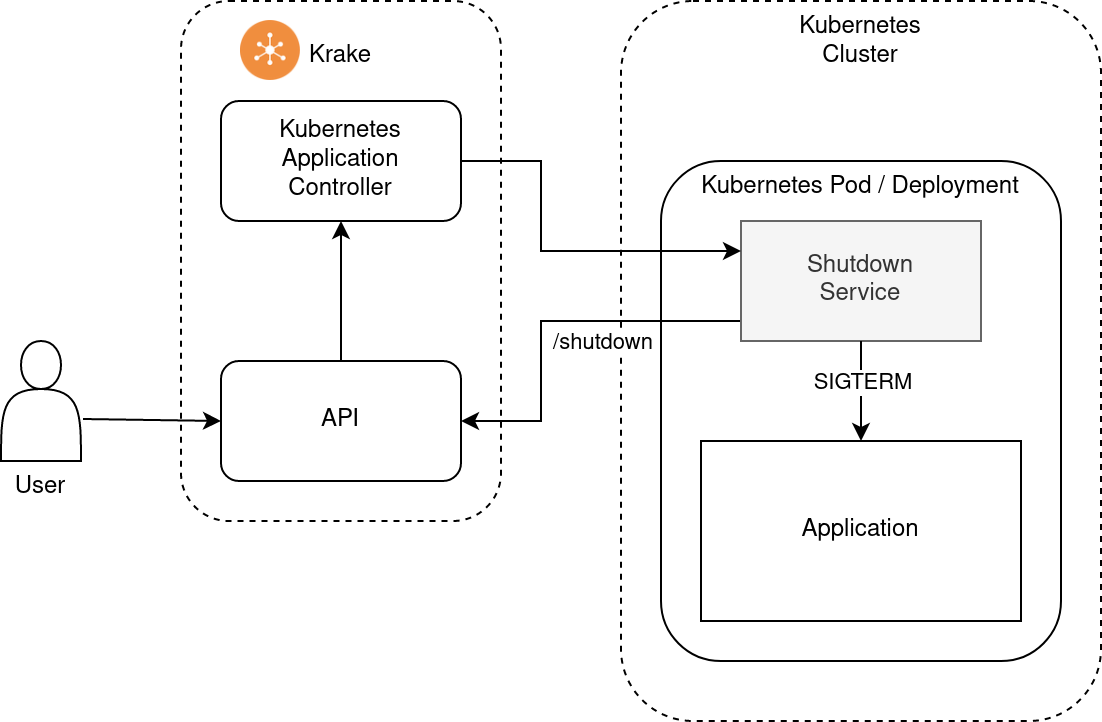
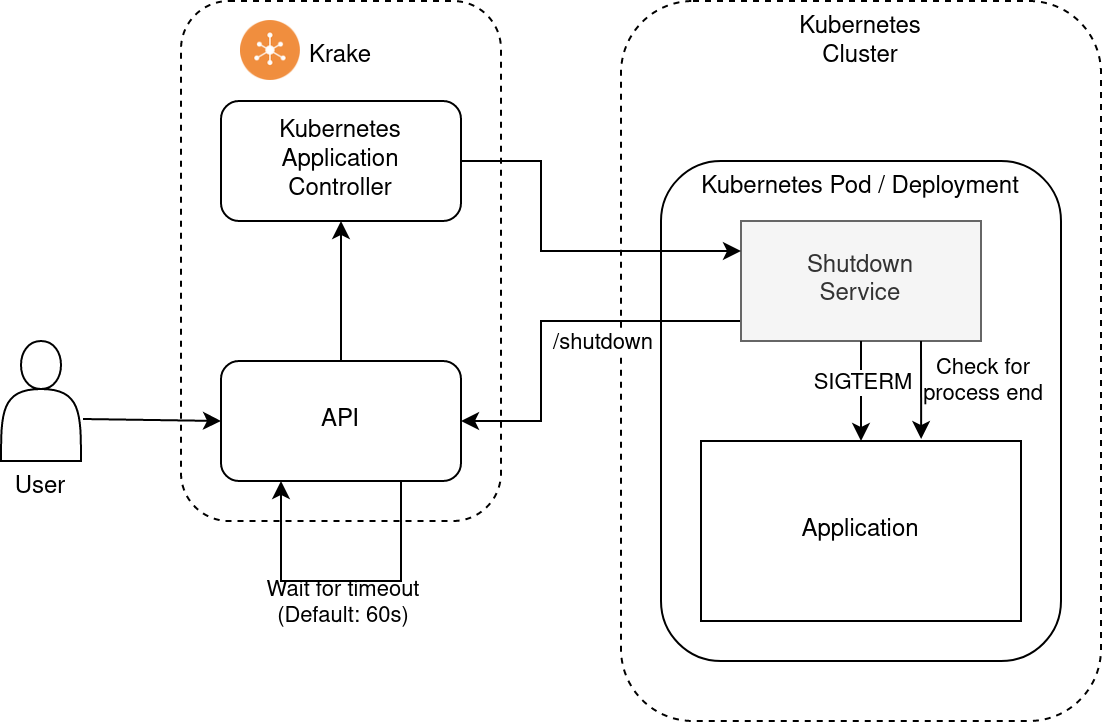
Documentation for stateful applications
This commit extends the user and dev documentation to contain sections about stateful applications. Note that these sections are WIP or changing, since stateful applications are still not fully developed.

Changed region(s): [[0.2468, 0.7922, 0.3702, 0.8837], [0.833, 0.4875, 0.9564, 0.6094], [0.2468, 0.6704, 0.2777, 0.7008]]

diff --git a/docs/dev/statefulness.rst b/docs/dev/statefulness.rst
@@ -1,0 +1,51 @@
+=================
+Statefulness
+=================
+
+Statefulness is a *property* of an application, if it creates, uses, controls and / or manages
+some persistent data. We also talk about a *stateful application* in this context.
+
+  .. note::
+
+      This feature is still under development in Krake, so new features could
+      be added or removed in the future. Also, some implementation details might
+      change.
+
+      Therefore, this page is subject to changes until this note is removed.
+
+Krake enables statefulness with its shutdown hook :ref:`dev/hooks:Shutdown`, a full
+explanation for this mechanism can be found in the linked chapter.
+This hook enables Krake to safely shutdown an application for migration or complete deletion.
+The following picture shows the overall mechanism.
+
+.. figure:: /img/shutdown_hook.png
+
+    Shutdown hook workflow in Krake
+
+It is important to note, that the shutdown hook itself does NOT save the data or even
+stops the application. If the hook is active for a specific application, Krake only calls
+a *micro-service* through a network call. This service preferably sits in the same
+container as the stateful application; its only task is to stop the corresponding application,
+if it receives the command, and then report back, if the application really stopped.
+You can view this *micro-service* as the extended arm of Krake.
+But this service also doesn't ensure that the data of an application is saved before a
+shutdown, since it only initiates the graceful shutdown.
+The actual application needs to handle its data integrity and storage itself during the
+shutdown process.
+
+External storage
+================
+
+At the moment, Krake implements statefulness through external storage solutions like buckets
+(e.g. Amazon S3, Minio) or other network accessible options.
+This is only a very simple form of statefulness, which would require a user to also
+have access to external storage or setup some solution himself.
+
+The following figure demonstrates this principle.
+
+.. figure:: /img/shutdown_hook__external_storage.png
+
+    Shutdown hook workflow with an external persistent storage
+
+This solution requires no mechanism for transferring storage by Krake itself, since the
+storage isn't managed by Krake; the storage solution basically acts as a static backend.

diff --git a/docs/user/user-story/5-advanced-applications.rst b/docs/user/user-story/5-advanced-applications.rst
@@ -1,0 +1,14 @@
+=================================================
+Creation and deployment of a stateful application
+=================================================
+
+Goal: Create and deploy a stateful application to Krake.
+
+  .. note::
+
+      This feature is still under development in Krake, so new features could
+      be added or removed in the future. Also, some implementation details might
+      change.
+
+      Therefore, this page is subject to changes until this note is removed.
+

diff --git a/docs/user/user-stories.rst b/docs/user/user-stories.rst
@@ -10,3 +10,4 @@ User Stories
     user-story/2-labels
     user-story/3-metrics
     user-story/4-openstack
+    user-story/5-advanced-applications
